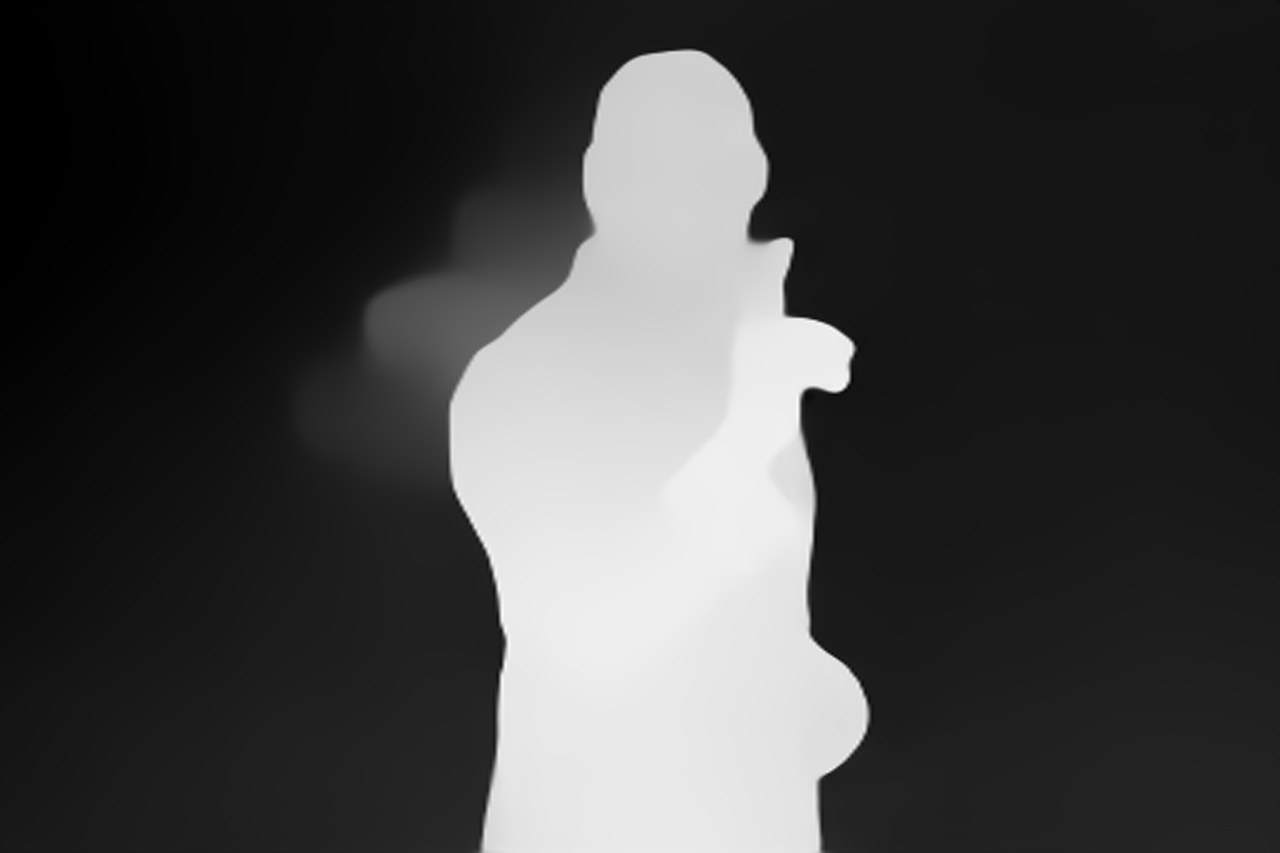
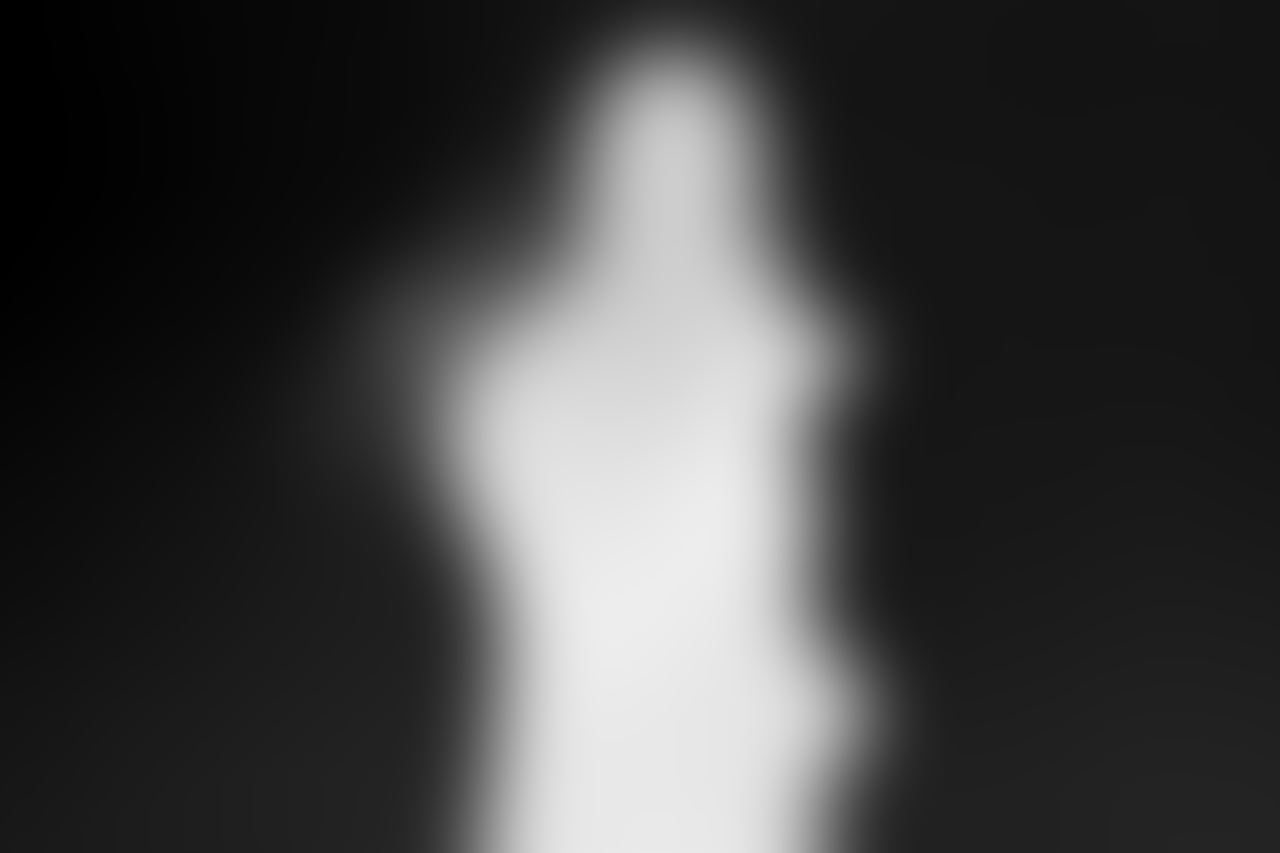
Ian Alleyne site v27 — hero single-surface fix: depth warp no longer folds at silhouette, all layers move as one

Changed region(s): [[0.3125, 0.0, 0.7188, 1.0], [0.2812, 0.3353, 0.3125, 0.3962]]

diff --git a/index.html b/index.html
@@ -309,16 +309,27 @@
   .scope figure{margin:0; position:relative; border-radius:16px; overflow:hidden; aspect-ratio:4/3.4; perspective:900px; touch-action:pan-y; -webkit-touch-callout:none; -webkit-user-select:none; user-select:none; will-change:transform}
   /* hero photo: ONE photo (ian-hero.jpg), depth-warped per-pixel by a WebGL
      canvas sampling the MiDaS depth map, driven by mouse AND touch alike.
-     FAIL-SAFE LAYERING: the plain <img> stays VISIBLE underneath the canvas
-     at all times — the canvas only ever paints OVER a photo that is already
-     on screen. If the WebGL path dies on a device (GPU context loss under
-     memory pressure from the page's autoplaying videos, an incomplete /
-     black texture on a phone GPU — the failure that left a black shadow
-     where Ian was), the script drops the canvas and the real photo is
-     simply still there. The photo can never be hidden by the effect. */
+     SINGLE-SURFACE RULE (the persistent outline fix): while the depth
+     canvas is live it is the ONLY visible copy of the photo, and it is
+     NEVER CSS-transformed — the whole motion (base shift + depth warp)
+     is computed inside its one fragment shader from one eased uniform,
+     so Ian and the space around him are painted in the same GPU pass
+     and cannot drift apart. The old build CSS-translated BOTH the <img>
+     and the canvas while ALSO shifting pixels inside the canvas: on a
+     real phone GPU the WebGL surface presents a frame behind the
+     compositor-driven CSS layers, so mid-motion his CSS-moved copy and
+     his depth-warped copy sat a frame apart and the gap drew his
+     outline — invisible in stills and on the preview's software
+     renderer, plain on the deployed link on a real device.
+     FAIL-SAFE: the <img> is the fallback, not a backdrop. It stays
+     visible until the canvas has drawn one verified-good frame; only
+     then does depth-on hide it. If WebGL dies at any point (context
+     loss, dead texture), depth-on drops, the canvas hides and the
+     <img> — now the single moving layer, CSS-driven — is simply there. */
   .scope img.hero-photo{position:absolute; inset:0; width:100%; height:100%; object-fit:cover; aspect-ratio:auto; z-index:1; transform:none; will-change:transform}
-  .scope canvas.hero-depth{position:absolute; inset:0; width:100%; height:100%; z-index:2; display:none; will-change:transform}
+  .scope canvas.hero-depth{position:absolute; inset:0; width:100%; height:100%; z-index:2; display:none}
   .scope figure.depth-on canvas.hero-depth{display:block}
+  .scope figure.depth-on img.hero-photo{visibility:hidden}
   /* the hero scope + reticle overlay the WHOLE frame, Ian included — a real
      viewfinder's reticle sits over the subject ("TARGET LOCKED"). They used
      to be hidden across his silhouette by an Ian-shaped alpha mask
@@ -1601,27 +1612,29 @@
   // samples the MiDaS depth map (assets/ian1-depth.png, 1280x853,
   // pixel-aligned with the photo assets/ian-hero.jpg; brighter = closer)
   // and offsets that pixel along the eased mouse vector IN PROPORTION TO
-  // ITS DEPTH: the head and pointing hand (brightest in the map) travel
-  // furthest, the suit less, the studio backdrop (near-black in the map)
-  // barely moves. Photo and depth are sampled through the SAME cover-fit
-  // UV transform, so the two never drift out of register. Displacement is
-  // capped at ~54px across / ~38px down for the very closest pixels, and
-  // it rides on top of a plain CSS-transform movement of the photo (see
-  // the "WHY IT STILL DOESN'T MOVE" note below), so the hero moves on
-  // every device whether or not WebGL works there.
+  // ITS DEPTH: every pixel shares a base shift (~30px across / ~21px
+  // down at desktop size), and near pixels get up to ~36px / ~25px MORE — the
+  // head and pointing hand (brightest in the map) travel furthest, the
+  // suit less, the studio backdrop (near-black in the map) least. Base
+  // shift and depth warp are ONE sampling operation inside this shader
+  // (see the SINGLE-SURFACE RULE in the CSS and the iteration note in
+  // the fragment source): there is no CSS transform on the photo or the
+  // canvas while this runs, so Ian and the space around him are painted
+  // in the same GPU pass and move in perfect time on every device. If
+  // WebGL is unavailable the plain <img> moves alone by CSS instead —
+  // still exactly one moving surface.
   // Runs for EVERY input — desktop mouse, a real mouse on Samsung DeX
   // (where Android Chrome misleadingly reports hover:none / pointer:
   // coarse, which is why this is NOT gated on those media queries or on
   // 'ontouchstart'), and touchscreens, where a finger touching or
   // dragging on the hero photo drives the exact same eased vector.
   // DEVICE FAIL-SAFES (the black-shadow bug): the canvas context is created
-  // with alpha:true and the <img> underneath is NEVER hidden, so a lost or
-  // black canvas composites as transparent over the real photo. On top of
+  // with alpha:true, and the <img> is hidden ONLY after the canvas has
+  // drawn a frame that is read back and verified non-black — a lost or
+  // dead canvas therefore never gets to hide the real photo. On top of
   // that: a webglcontextlost listener drops the canvas the moment the GPU
-  // gives it up, texture-upload errors abort before the canvas is shown,
-  // and the first drawn frame is read back — if every sampled pixel is
-  // black (incomplete-texture black on this device's GPU), the canvas is
-  // dropped and the photo underneath carries the hero on its own.
+  // gives it up (restoring the <img> as the moving surface), and texture-
+  // upload errors abort before the canvas is ever shown.
   // WHY IT "STILL DOESN'T MOVE" — fixed in this pass. The old build made
   // ALL movement depend on this WebGL script succeeding end-to-end, and
   // the script bailed out completely in three common situations:
@@ -1635,16 +1648,16 @@
   //      existed at all.
   // And even when it did run, the cap was ~15px at the extreme edge of
   // the frame only, eased at 0.065 — easy to miss entirely.
-  // This pass restructures it: pointer/touch input and an eased CSS
-  // transform on the photo itself are the PRIMARY movement — plain DOM,
-  // no GPU, registered immediately, driven by unified Pointer Events
-  // (mouse, DeX mouse, pen and finger all report through them) plus the
-  // old mouse/touch events as belt-and-braces. The WebGL depth warp
-  // still runs on top when the device supports it, with a bigger cap.
-  // Reduced-motion no longer kills direct manipulation (a photo leaning
-  // toward the visitor's own finger/cursor is their action, and the
-  // owner explicitly wants it in every mode); it only stops the idle
-  // auto-sway. If WebGL dies at any point the CSS movement carries on.
+  // This pass restructures it: pointer/touch input is registered
+  // immediately, driven by unified Pointer Events (mouse, DeX mouse,
+  // pen and finger all report through them) plus the old mouse/touch
+  // events as belt-and-braces, and one eased vector drives whichever
+  // single surface is live (canvas shader, or the <img> by CSS when
+  // WebGL is unavailable). Reduced-motion no longer kills direct
+  // manipulation (a photo leaning toward the visitor's own finger/
+  // cursor is their action, and the owner explicitly wants it in every
+  // mode); it only stops the idle auto-sway. If WebGL dies at any
+  // point the CSS fallback carries on.
   var REDUCED = !!(window.matchMedia && window.matchMedia('(prefers-reduced-motion: reduce)').matches);
   var scopeEl = document.getElementById('heroScope');
   var canvas = document.getElementById('heroDepth');
@@ -1652,22 +1665,35 @@
   var fig = canvas.parentNode;
   var photoEl = scopeEl.querySelector('.hero-photo');
 
-  /* ---------- primary movement: eased CSS transform (no WebGL) ----------
-     The photo and the depth canvas get the SAME translate so they stay
-     in register; the figure itself tilts in 3D. Overscaled (1.16) so
-     the translate never opens a gap at the edges. An idle sway takes
-     over a few seconds after the last input so the hero visibly moves
-     on its own in the preview — no input required to prove it lives. */
+  /* ---------- movement: ONE eased vector, ONE moving surface ----------
+     A single eased vector (cX, cY) drives everything, and exactly one
+     surface ever moves with it:
+       • WebGL live  → the depth canvas, and the motion is applied
+         INSIDE its shader (base shift + depth warp in one pass). The
+         canvas element itself gets NO CSS transform and the <img> is
+         hidden, so there is no second copy on a different presentation
+         clock to lag a frame behind and trace his outline.
+       • WebGL dead/absent → the plain <img>, CSS-transformed, with the
+         canvas hidden. Again one layer, one clock.
+     The figure tilt is a transform on the SHARED parent: it moves the
+     photo, the reticle and the HUD as one rigid frame and can never
+     put them out of register with each other. An idle sway takes over
+     a few seconds after the last input so the hero visibly moves on
+     its own — no input required to prove it lives. */
   var tX = 0, tY = 0;        // target, -1..1
   var cX = 0, cY = 0;        // eased current
   var lastInput = 0;         // timestamp of last pointer/touch input
   var raf = null;
   var EASE = 0.12;
   var glDraw = null;         // set by the WebGL section when it is live
+  var glLive = false;        // true once the canvas is the visible hero
   function applyCss(){
-    var tr = 'translate3d(' + (cX * 30).toFixed(2) + 'px,' + (cY * 21).toFixed(2) + 'px,0) scale(1.16)';
-    if (photoEl) photoEl.style.transform = tr;
-    canvas.style.transform = tr;
+    // fallback surface only: when the canvas is live the <img> is
+    // hidden and must NOT be transformed — a second moving copy under
+    // (or over) the canvas is exactly the desync being fixed.
+    if (!glLive && photoEl){
+      photoEl.style.transform = 'translate3d(' + (cX * 30).toFixed(2) + 'px,' + (cY * 21).toFixed(2) + 'px,0) scale(1.16)';
+    }
     fig.style.transform = 'rotateX(' + (-cY * 9.5).toFixed(3) + 'deg) rotateY(' + (cX * 13).toFixed(3) + 'deg)';
   }
   function frame(now){
@@ -1742,7 +1768,9 @@
   canvas.addEventListener('webglcontextlost', function(){
     dead = true;
     glDraw = null;
+    glLive = false;   // <img> becomes the single moving surface again
     fig.classList.remove('depth-on');
+    wake();
   }, false);
 
   var VSRC = 'attribute vec2 aPos; varying vec2 vUv; void main(){ vUv = aPos * 0.5 + 0.5; gl_Position = vec4(aPos, 0.0, 1.0); }';
@@ -1751,33 +1779,56 @@
     'varying vec2 vUv;',
     'uniform sampler2D uPhoto;',
     'uniform sampler2D uDepth;',
-    'uniform vec2 uCover;',  // visible fraction of the photo under cover-fit (x, y)
+    'uniform vec2 uCover;',  // visible fraction of the photo under cover-fit (x, y), incl. the zoom headroom
     'uniform vec2 uMouse;',  // eased pointer, -1..1 (x right, y DOWN — screen space)
-    'uniform vec2 uMax;',    // displacement cap in photo-UV units (x, y)
+    'uniform vec2 uBase;',   // whole-photo shift in photo-UV units — the move EVERY pixel shares
+    'uniform vec2 uMax;',    // EXTRA shift in photo-UV units for the closest pixels (depth on top of uBase)
+    // Feathered, remapped depth at a photo-UV point. WHY THE MAP IS
+    // PRE-BLURRED (the actual cut-out mechanism, found by rendering the
+    // old warp offline): the raw MiDaS map steps from backdrop to Ian
+    // over ~2 texels, so the old warp's displacement changed by its
+    // full amount across ~2 output pixels — faster than the pixels
+    // themselves advance. The sampling mapping FOLDED (its Jacobian
+    // went negative across ~2,500 pixels around his head and hand):
+    // a band of the photo was sampled in reverse, smeared and
+    // duplicated — the slab of forehead/hand visibly torn from the
+    // face at strong deflection, i.e. his cut-out separating from the
+    // space around him exactly as reported. assets/ian1-depth.png is
+    // therefore gaussian-blurred (radius 38) before it ships, widening
+    // the silhouette ramp to ~90 texels, and the in-shader five-tap
+    // average below widens it a touch more; the remap then pins the
+    // backdrop (~0.0-0.14 in the map) at 0 and his silhouette at 1
+    // with a smoothstep between. With these caps the mapping's
+    // Jacobian stays positive at every pixel, every figure size and
+    // every deflection — verified numerically offline; it cannot fold.
+    'float depthAt(vec2 p){',
+    '  vec2 tx = vec2(0.004, 0.0055);',
+    '  float d = texture2D(uDepth, p).r * 0.4',
+    '          + texture2D(uDepth, p + vec2( tx.x, 0.0)).r * 0.15',
+    '          + texture2D(uDepth, p - vec2( tx.x, 0.0)).r * 0.15',
+    '          + texture2D(uDepth, p + vec2(0.0,  tx.y)).r * 0.15',
+    '          + texture2D(uDepth, p - vec2(0.0,  tx.y)).r * 0.15;',
+    '  float dn = clamp((d - 0.14) / 0.79, 0.0, 1.0);',
+    '  return dn * dn * (3.0 - 2.0 * dn);',
+    '}',
     'void main(){',
     '  vec2 uv = (vUv - 0.5) * uCover + 0.5;',
-    // FEATHERED depth (the cut-out line fix): the raw MiDaS map steps from
-    // backdrop to Ian in a single texel, so the warp used to jump the full
-    // displacement across one pixel column — tearing a bright smeared
-    // outline along his silhouette that showed the moment he moved.
-    // Averaging five taps spread ~2 texels softens that step into a ramp:
-    // displacement now eases across several pixels at his edge instead of
-    // snapping, and no single hard line is left to see.
-    '  vec2 tx = vec2(0.0016, 0.0023);',
-    '  float d = texture2D(uDepth, uv).r * 0.4',
-    '          + texture2D(uDepth, uv + vec2( tx.x, 0.0)).r * 0.15',
-    '          + texture2D(uDepth, uv - vec2( tx.x, 0.0)).r * 0.15',
-    '          + texture2D(uDepth, uv + vec2(0.0,  tx.y)).r * 0.15',
-    '          + texture2D(uDepth, uv - vec2(0.0,  tx.y)).r * 0.15;',
-    // depth floor: backdrop sits at ~0.0-0.14 in the map, Ian at ~0.82-0.93 —
-    // remap so the backdrop is pinned at 0 and his silhouette reaches 1,
-    // with a smoothstep so mid-depths (suit, haze) ease between the two.
-    // The remap range is widened (0.14/0.79 vs the old 0.18/0.75) for the
-    // same reason: a gentler ramp at the silhouette, a less visible edge.
-    '  float dn = clamp((d - 0.14) / 0.79, 0.0, 1.0);',
-    '  dn = dn * dn * (3.0 - 2.0 * dn);',
-    // sample AGAINST the shift so near content moves WITH the cursor
-    '  vec2 suv = vec2(uv.x - uMouse.x * uMax.x * dn, uv.y + uMouse.y * uMax.y * dn);',
+    // ONE SAMPLE, ONE PASS: depth is read once, at uv, and the total
+    // offset — base shift (every pixel) + depth extra (near pixels) —
+    // is applied to that same lookup. Ian and the space around him are
+    // therefore never separate layers that could present on different
+    // frames: there is only this texture, redrawn whole each frame.
+    // (An earlier draft iterated — re-reading depth at the displaced
+    // point so the matte would chase the content — but at the hard
+    // depth step of his silhouette the iteration oscillates between
+    // foreground and background depth and tears his head and hand
+    // into fragments. The single feathered sample keeps the edge
+    // coherent; the frame-lock comes from the single surface, not
+    // from chasing the matte.)
+    // Offset applied against the shift so content moves WITH the
+    // cursor: x samples backwards, y forwards (UNPACK_FLIP_Y space).
+    '  float dn = depthAt(uv);',
+    '  vec2 suv = uv + vec2(-uMouse.x * (uBase.x + uMax.x * dn), uMouse.y * (uBase.y + uMax.y * dn));',
     '  gl_FragColor = texture2D(uPhoto, suv);',
     '}'
   ].join('\n');
@@ -1808,6 +1859,7 @@
 
   var uCoverL = gl.getUniformLocation(prog, 'uCover');
   var uMouseL = gl.getUniformLocation(prog, 'uMouse');
+  var uBaseL  = gl.getUniformLocation(prog, 'uBase');
   var uMaxL   = gl.getUniformLocation(prog, 'uMax');
   gl.uniform1i(gl.getUniformLocation(prog, 'uPhoto'), 0);
   gl.uniform1i(gl.getUniformLocation(prog, 'uDepth'), 1);
@@ -1825,8 +1877,13 @@
     return t;
   }
 
-  // cover-fit + displacement caps, recomputed on resize
-  var coverX = 1, coverY = 1, maxX = 0.042, maxY = 0.03;
+  // cover-fit + displacement caps, recomputed on resize. The canvas is
+  // never CSS-scaled (single-surface rule), so the overscan the old CSS
+  // transform provided is folded into the cover fit instead: sampling
+  // only the middle 1/1.22 of the cover region zooms the photo in and
+  // leaves headroom on every side for the base shift + depth shift to
+  // sample into without ever reaching the photo's clamped edge.
+  var coverX = 1, coverY = 1, baseX = 0.02, baseY = 0.014, maxX = 0.042, maxY = 0.03;
   function resize(){
     var w = fig.clientWidth, h = fig.clientHeight;
     if (!w || !h) return;
@@ -1837,19 +1894,31 @@
     var imgA = 1280 / 853, boxA = w / h;
     if (boxA < imgA){ coverX = boxA / imgA; coverY = 1; }
     else { coverX = 1; coverY = imgA / boxA; }
-    maxX = 54 / (w / coverX);   // 54 css px at full deflection, closest pixels
-    maxY = 38 / (h / coverY);   // 38 css px — bold lean, unmissable at a glance
+    coverX /= 1.22; coverY /= 1.22;   // zoom headroom (see note above)
+    // Displacement caps are FIXED fractions of the photo (UV units),
+    // NOT pixel counts: a fixed 40px cap is a far bigger relative
+    // shift on a 358px phone frame than on a 520px desktop frame, and
+    // relative shift is what tears the silhouette (see the fold note
+    // at the depth map). In UV the warp behaves identically at every
+    // figure size. Values ≈ the old pixel caps at desktop size:
+    // base ≈ 30/21px, depth extra ≈ 36/25px at 520×442.
+    baseX = 0.037; baseY = 0.039;
+    maxX = 0.044;  maxY = 0.046;
     if (glDraw) glDraw(cX, cY);
   }
 
-  // The primary CSS loop (above) drives this on every frame with the
-  // same eased vector, so the per-pixel warp and the photo translate
-  // move as one. If the GPU drops the context, glDraw is nulled and
-  // the CSS movement simply carries on without it.
+  // The frame loop (above) drives this on every frame with the same
+  // eased vector it uses for the figure tilt. This draw is the ONLY
+  // place the hero photo moves while WebGL is live: base shift and
+  // depth warp are one sampling operation in one GPU pass, so no two
+  // layers exist that could present on different frames. If the GPU
+  // drops the context, glDraw is nulled, glLive clears, and the CSS
+  // fallback takes over the <img> as the single moving surface.
   glDraw = function(x, y){
     if (dead) return;
     gl.uniform2f(uCoverL, coverX, coverY);
     gl.uniform2f(uMouseL, x, y);
+    gl.uniform2f(uBaseL, baseX, baseY);
     gl.uniform2f(uMaxL, maxX, maxY);
     gl.drawArrays(gl.TRIANGLE_STRIP, 0, 4);
   };
@@ -1877,6 +1946,7 @@
       if (!lit){
         dead = true;
         glDraw = null;
+        glLive = false;
         fig.classList.remove('depth-on');
       }
     } catch(e){ /* readback unavailable on this driver — leave as drawn */ }
@@ -1890,10 +1960,15 @@
     makeTex(photoImg, 0);
     makeTex(depthImg, 1);
     if (gl.getError() !== gl.NO_ERROR){ failed = true; glDraw = null; return; }
-    fig.classList.add('depth-on');
+    // Draw and probe BEFORE depth-on: that class now hides the <img>,
+    // so the canvas must already hold a verified-good frame at the
+    // moment it becomes the only visible copy — no blank gap, and a
+    // dead texture never gets to hide the real photo.
     resize();
     probeFirstFrame();
     if (dead) return;
+    glLive = true;
+    fig.classList.add('depth-on');
     window.addEventListener('resize', resize);
     wake();
   }
